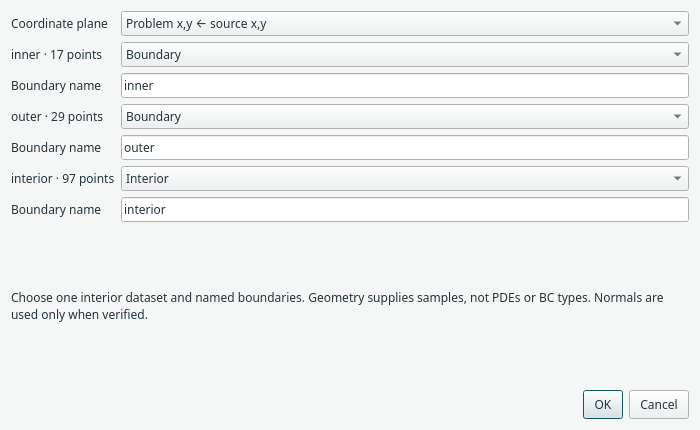
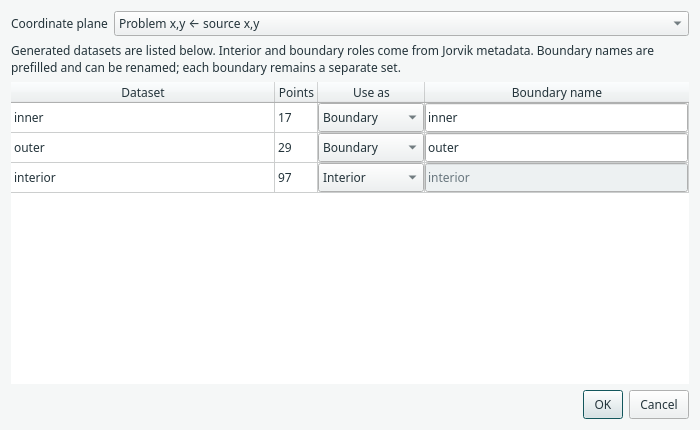
Export saved Jorvik samples automatically and prefill dataset roles
Read generated arrays from validated project documents, preserve explicit NetCDF overrides, and present independent boundaries in a named dataset table.

diff --git a/margam/ui/jorvik_geometry.py b/margam/ui/jorvik_geometry.py
@@ -6,11 +6,10 @@ import shutil
 import sys
 from zipfile import BadZipFile
 from uuid import uuid4
-from PySide6.QtCore import QProcess, QIODevice, QUrl
+from PySide6.QtCore import QProcess, QIODevice, QUrl, Qt
 from PySide6.QtGui import QDesktopServices
-from PySide6.QtWidgets import QDialog, QDialogButtonBox, QVBoxLayout, QFormLayout, QLabel, QComboBox, QLineEdit, QMessageBox, QPushButton, QFileDialog
-from ..components.jorvik_data import records, inspect_selection
-from .graph_model import parameters_for
+from PySide6.QtWidgets import QDialog, QDialogButtonBox, QVBoxLayout, QFormLayout, QLabel, QComboBox, QLineEdit, QMessageBox, QPushButton, QFileDialog, QTableWidget, QTableWidgetItem, QHeaderView, QAbstractItemView
+from ..components.jorvik_data import records, inspect_selection, export_saved_project
 
 
 def document_relative(identifier):
@@ -22,20 +21,32 @@ class DatasetDialog(QDialog):
         super().__init__(parent)
         self.setWindowTitle('Update from Jorvik · planar 2D samples')
         layout=QVBoxLayout(self);form=QFormLayout();layout.addLayout(form)
-        note=QLabel('Choose one interior dataset and named boundaries. Geometry supplies samples, not PDEs or BC types. Normals are used only when verified.');note.setWordWrap(True);layout.addWidget(note)
+        note=QLabel('Generated datasets are listed below. Interior and boundary roles come from Jorvik metadata. Boundary names are prefilled and can be renamed; each boundary remains a separate set.');note.setWordWrap(True);layout.addWidget(note)
         self.axes=QComboBox()
         for axes in ((0,1),(0,2),(1,2)):self.axes.addItem('Problem x,y ← source '+','.join('xyz'[axis] for axis in axes),axes)
         self.axes.setCurrentIndex(((0,1),(0,2),(1,2)).index(tuple(previous.get('axes',[0,1]))));form.addRow('Coordinate plane',self.axes)
-        self.rows=[]
-        for record in records(path):
+        exported=records(path)
+        self.table=QTableWidget(len(exported),4);self.table.setHorizontalHeaderLabels(['Dataset','Points','Use as','Boundary name'])
+        self.table.setEditTriggers(QAbstractItemView.EditTrigger.NoEditTriggers)
+        self.table.verticalHeader().hide();self.table.setSelectionMode(QAbstractItemView.SelectionMode.NoSelection)
+        header=self.table.horizontalHeader()
+        for column in (0,3):header.setSectionResizeMode(column,QHeaderView.ResizeMode.Stretch)
+        for column in (1,2):header.setSectionResizeMode(column,QHeaderView.ResizeMode.ResizeToContents)
+        layout.addWidget(self.table);self.rows=[]
+        for row,record in enumerate(exported):
             metadata=record['metadata'];identity=metadata.get('boundary_region',{}).get('id') or 'label:'+record['label']
             old=previous.get('datasets',{}).get(identity,{})
-            choice=QComboBox();choice.addItems(['Ignore','Interior','Boundary'])
-            choice.setCurrentText(old.get('role','Ignore').title())
+            default='interior' if metadata.get('target')=='interior' or metadata.get('entity_dimension')==2 else 'boundary' if metadata.get('entity_dimension')==1 else 'choose role…'
+            choice=QComboBox();choice.addItems(['Interior','Boundary','Ignore','Choose role…'])
+            choice.setCurrentText(old.get('role',default).capitalize())
             alias=QLineEdit(old.get('name',record['label']));alias.setMaxLength(64)
-            form.addRow(record['label']+' · '+str(metadata.get('count','?'))+' points',choice)
-            form.addRow('Boundary name',alias)
+            alias.setEnabled(choice.currentText()=='Boundary')
+            choice.currentTextChanged.connect(lambda text,widget=alias:widget.setEnabled(text=='Boundary'))
+            for column,text in [(0,record['label']),(1,str(metadata.get('count','?')))]:
+                item=QTableWidgetItem(text);item.setFlags(Qt.ItemFlag.ItemIsEnabled);self.table.setItem(row,column,item)
+            self.table.setCellWidget(row,2,choice);self.table.setCellWidget(row,3,alias)
             self.rows.append((record['label'],choice,alias))
+        self.resize(800,min(600,220+45*len(exported)))
         buttons=QDialogButtonBox(QDialogButtonBox.StandardButton.Ok|QDialogButtonBox.StandardButton.Cancel)
         buttons.accepted.connect(self.accept);buttons.rejected.connect(self.reject);layout.addWidget(buttons)
 
@@ -124,12 +135,21 @@ class JorvikGeometryActions:
             self.jorvik_process=None;self.project_workspace.busy=False;self.set_busy(False)
             self.undo_stack.resetClean()
             if self.desktop_state is not None:self.desktop_state.queue()
-            self.statusBar().showMessage('Jorvik closed · Update from Jorvik to apply exported samples' if not args or args[0]==0 else 'Jorvik exited with an error · check editor.log in its working folder')
+            if not args or args[0]==0:
+                if node.settings.get('jorvik_files',{}).get('export'):
+                    self.statusBar().showMessage('Jorvik closed · selected NetCDF copy remains active; clear that override to use saved project samples')
+                else:
+                    try:
+                        count=export_saved_project(self.jorvik_document(node),self.jorvik_export(node))
+                        self.statusBar().showMessage(f'Exported {count} saved Jorvik datasets · Update from Jorvik to apply')
+                    except (OSError,ValueError,TypeError,KeyError,ImportError,BadZipFile) as error:
+                        self.statusBar().showMessage('Jorvik closed · '+str(error))
+            else:self.statusBar().showMessage('Jorvik exited with an error · check editor.log in its working folder')
             process.deleteLater()
         process.finished.connect(finished)
         def failed(error):
             self.statusBar().showMessage('Jorvik launch failed · check editor.log')
-            if error==QProcess.ProcessError.FailedToStart:finished()
+            if error==QProcess.ProcessError.FailedToStart:finished(-1)
         process.errorOccurred.connect(failed);process.start()
         self.statusBar().showMessage('Editing in Jorvik · close its window before saving or updating Margam')
         return True
@@ -139,6 +159,8 @@ class JorvikGeometryActions:
         snapshot=None
         try:
             path=self.jorvik_export(node)
+            if not node.settings.get('jorvik_files',{}).get('export'):
+                export_saved_project(self.jorvik_document(node),path)
             previous=node.settings.get('jorvik',{})
             if selections is None:
                 dialog=DatasetDialog(path,previous,self)
@@ -211,7 +233,7 @@ class JorvikGeometryActions:
             self.push_edit('Update from Jorvik',redo,lambda:apply(old,False))
             self.statusBar().showMessage('Applied Jorvik snapshot · assign BC physics and connect supplied evaluation points')
             return True
-        except (OSError,ValueError,TypeError,KeyError,ImportError) as error:
+        except (OSError,ValueError,TypeError,KeyError,ImportError,BadZipFile) as error:
             if snapshot is not None:snapshot.unlink(missing_ok=True)
             QMessageBox.warning(self,'Jorvik update could not be applied',str(error));return False
 
@@ -226,6 +248,6 @@ class JorvikGeometryActions:
         if node.settings.get('jorvik_files',{}).get('export'):
             reset=QPushButton('Use export beside geometry document');reset.clicked.connect(lambda:self.use_adjacent_jorvik_export(node));self.form.addRow(reset)
         folder=QPushButton('Open working folder');folder.clicked.connect(lambda:QDesktopServices.openUrl(QUrl.fromLocalFile(str(path.parent))));self.form.addRow(folder)
-        note=QLabel('In Jorvik, save the document and export samples as domain.nc in the same folder. Close Jorvik, then Update. Choose Interior / Boundary datasets explicitly. Supported: axis-aligned planar 2D scalar problems; evaluation points remain separate.');note.setWordWrap(True);self.form.addRow(note)
+        note=QLabel('In Jorvik, generate samples and save the document. Margam exports its saved samples automatically when the editor closes or when you Update. Roles and boundary names are prefilled. An optional selected NetCDF copy overrides this export. Supported: axis-aligned planar 2D scalar problems; evaluation points remain separate.');note.setWordWrap(True);self.form.addRow(note)
         for text,action in [('Edit in Jorvik',self.edit_jorvik),('Update from Jorvik',self.update_jorvik)]:
             button=QPushButton(text);button.clicked.connect(lambda checked=False,callback=action:callback(node));self.form.addRow(button)

diff --git a/tests/test_jorvik.py b/tests/test_jorvik.py
@@ -27,6 +27,7 @@ def fixture(path, *, nonplanar=False, normal_kind='outward_conormal'):
                          normal_validation='fixture',boundary_region={'id':label+'-stable'})
         batches.append(batch)
     export_samples(batches,path)
+    return batches
 
 
 SELECTION={'interior':('interior','interior'),'base':('boundary','base'),'wall':('boundary','wall')}
@@ -47,6 +48,23 @@ class JorvikDataTests(unittest.TestCase):
             points,normals,_=read_points(report['boundaries']['wall']['mapping'],2)
             self.assertEqual(points.shape,(4,2));np.testing.assert_array_equal(normals,np.tile([-1,0],(4,1)))
             self.assertEqual(report['boundaries']['base']['identity'],'base-stable')
+
+    def test_export_saved_project_and_missing_samples(self):
+        from unittest.mock import patch
+        from margam.components.jorvik_data import export_saved_project
+        from jorvik.project import create_empty_project
+        with tempfile.TemporaryDirectory() as directory:
+            path=Path(directory)/'domain.nc';batches=fixture(path)
+            path.unlink()
+            manifest={'areas':[dict(status='Generated',area=batch) for batch in batches]}
+            with patch('jorvik.project.load_project',return_value=(manifest,None)):
+                self.assertEqual(export_saved_project('saved.jorvik',path),3)
+            report=inspect_selection(path,SELECTION)
+            self.assertEqual(len(report['boundaries']),2)
+            original=path.read_bytes()
+            empty=Path(directory)/'empty.jorvik';create_empty_project(empty)
+            with self.assertRaisesRegex(ValueError,'No generated samples'):export_saved_project(empty,path)
+            self.assertEqual(path.read_bytes(),original)
 
     def test_nonplanar_and_invalid_roles(self):
         with tempfile.TemporaryDirectory() as directory:
@@ -106,6 +124,13 @@ with TemporaryDirectory() as directory:
     pde=next(n for n in w.scene.nodes() if n.kind=='pde')
     bc=next(n for n in w.scene.nodes() if n.kind=='bc')
     w.scene.connect_nodes(interior,pde);w.scene.connect_nodes(boundary,bc)
+    from margam.ui.jorvik_geometry import DatasetDialog
+    dialog=DatasetDialog(w.jorvik_export(geometry),{},w)
+    assert dialog.selection()==SELECTION
+    assert dialog.table.rowCount()==3
+    assert [alias.isEnabled() for label,choice,alias in dialog.rows]==[False,True,True]
+    dialog.rows[1][2].setText('renamed');assert dialog.selection()['base']==('boundary','renamed')
+    dialog.close()
     from PySide6.QtCore import QProcess
     with patch.object(QProcess,'start'):
         assert w.edit_jorvik(geometry)

diff --git a/examples/capture_jorvik.py b/examples/capture_jorvik.py
@@ -32,10 +32,9 @@ def main():
                 if node.kind in ('domain','interior','boundary'):window.delete_block(node)
             geometry=window.add_node('Jorvik geometry')
             import shutil
-            shutil.copyfile(export,window.jorvik_document(geometry).with_suffix('.nc'))
+            assert window.browse_jorvik(geometry,'document',export.with_suffix('.jorvik'))
             dialog=DatasetDialog(export,{},window)
-            for label,choice,alias in dialog.rows:
-                choice.setCurrentText(selections[label][0].title());alias.setText(label)
+            assert dialog.selection()==selections
             dialog.resize(700,430);dialog.show();save(dialog,'datasets');dialog.close()
             assert window.update_jorvik(geometry,selections,confirm=False)
             interior=next(n for n in window.scene.nodes() if n.kind=='interior_data');boundary=next(n for n in window.scene.nodes() if n.kind=='boundary_data')
@@ -44,7 +43,7 @@ def main():
             positions={'jorvik_geometry':(0,160),'interior_data':(240,40),'boundary_data':(240,270),'pde':(480,40),'bc':(480,270),'network':(480,440),'method':(730,160)}
             for node in window.scene.nodes():node.setPos(*positions[node.kind])
             assert window.validate_model();window.show_block_properties(geometry);window.fit_model();save(window,'geometry')
-        manifest.write_text(json.dumps(dict(generator='examples.capture_jorvik',case='Actual Jorvik annulus export; Margam-owned editor document starts empty.',files={path.name:dict(bytes=path.stat().st_size,sha256=hashlib.sha256(path.read_bytes()).hexdigest()) for path in paths.values()}),indent=2)+'\n')
+        manifest.write_text(json.dumps(dict(generator='examples.capture_jorvik',case='Actual saved Jorvik annulus document and automatic sample export.',files={path.name:dict(bytes=path.stat().st_size,sha256=hashlib.sha256(path.read_bytes()).hexdigest()) for path in paths.values()}),indent=2)+'\n')
     finally:window.undo_stack.setClean();window.close();app.clipboard().clear();app.processEvents()
 
 

diff --git a/examples/jorvik_exchange.py b/examples/jorvik_exchange.py
@@ -30,7 +30,15 @@ def sample_annulus(directory):
                        resolution=32,compute_mode='reproducible',cpu_threads=1)
         if region:request['boundary_region']=region_snapshot(regions,geometry,region['id'])
         batches.append(sample_geometry(request))
-    path=directory/'domain.nc';export_samples(batches,path)
+    from jorvik.project import save_project
+    state=dict(mode='edge',selection=[],selected_area=None,boundary_regions=regions,
+               show_points=True,through=False,show_grid=False,show_axes=True,isolate=False,isolate_geometry=False,point_size=5,
+               geometry_visibility=dict(geometry=True,faces=True,edges=True,hiddenFaces=[],isolatedFaces=None),
+               controls=dict(method='sobol',compute_mode='reproducible',resolution=32,count=97,seed=42,cpu_threads=1,label='interior',target='interior'))
+    project=directory/'domain.jorvik'
+    save_project(project,geometry,[(batch,'Generated',True) for batch in batches],state)
+    from margam.components.jorvik_data import export_saved_project
+    path=directory/'domain.nc';assert export_saved_project(project,path)==3
     return path,{'interior':('interior','interior'),'inner':('boundary','inner'),'outer':('boundary','outer')}
 
 

diff --git a/margam/components/jorvik_data.py b/margam/components/jorvik_data.py
@@ -118,3 +118,15 @@ def inspect_selection(path, selections, axes=(0,1)):
     if np.any(lower>=upper): raise ValueError('Selected points need nonzero extent in both problem coordinates.')
     return dict(interior=interior[0],boundaries=boundaries,bounds=[lower.tolist(),upper.tolist()],
                 axes=list(axes),sha256=hashlib.sha256(Path(path).read_bytes()).hexdigest())
+
+
+def export_saved_project(project, destination):
+    """Export already-generated arrays from Jorvik's validated saved document."""
+    from jorvik.project import load_project
+    from jorvik.export import export_samples
+    manifest, _ = load_project(project)
+    batches=[record['area'] for record in manifest['areas'] if record['status']=='Generated']
+    if not batches:
+        raise ValueError('No generated samples in the saved Jorvik document. Generate samples in Jorvik and save the project first.')
+    export_samples(batches,destination)
+    return len(batches)

diff --git a/docs/jorvik.md b/docs/jorvik.md
@@ -19,19 +19,23 @@ Margam `geometry` extra declares the NetCDF reader dependencies, xarray and SciP
 installing Jorvik supplies those too. Margam's ordinary built-in domains do not
 require Jorvik. Importing a model never launches the external editor automatically.
 
-## Edit, export and apply
+## Edit, save and apply
 
 1. Add **Jorvik geometry** from the block library. It creates an empty `.jorvik`
    document in the current project's working folder.
 2. Right-click the block → **Edit in Jorvik**, or double-click it. Import your
    geometry, define named boundary regions and generate samples there.
-3. Save the Jorvik document. Export the generated datasets as **domain.nc** beside
-   **domain.jorvik**. The block's **Open working folder** button shows that folder.
-   Saving the editor document alone does not create the NetCDF export.
+3. Save the Jorvik document after generating samples. Margam reads its saved
+   generated datasets and exports **domain.nc** automatically when the editor
+   closes. No manual export step is needed. It also regenerates the export when
+   you choose Update, so a stale adjacent NetCDF file is not reused.
 4. Close Jorvik. Back in Margam, right-click → **Update from Jorvik**.
-5. Choose the source coordinate plane, exactly one **Interior** dataset and one
-   or more **Boundary** datasets. Leave other datasets as **Ignore**. Enter a
-   unique boundary name starting with a letter; letters, digits, `_` and `-` follow.
+5. Review the dataset table. Roles are preselected from Jorvik sampling metadata;
+   boundary names are prefilled from the exported labels and remain editable.
+   Each boundary dataset has its own row. Confirm the coordinate plane, one
+   **Interior** dataset and one or more **Boundary** datasets. **Ignore** is an
+   explicit opt-out, not the default. Boundary names start with a letter, followed
+   by letters, digits, `_` or `-`.
 6. Confirm the update. Margam creates or updates **Interior data** and **Boundary
    data** blocks connected to this geometry. Connect their outputs to the PDE and
    Boundary condition blocks, respectively. Remove the original rectangle/samplers
@@ -43,12 +47,13 @@ require Jorvik. Importing a model never launches the external editor automatical
 ![Select independently sized datasets and their roles](../assets/screenshots/manual-jorvik-datasets.png)
 
 *Real Jorvik annulus export: 97 interior points, 17 inner-boundary points and 29
-outer-boundary points. Dataset roles are explicit; labels do not decide physics.*
+outer-boundary points. Metadata selects the default roles; editable names preserve
+the exported labels. No PDE or BC type is inferred from a name.*
 
 ![Jorvik geometry with separate prepared data sources](../assets/screenshots/manual-jorvik-geometry.png)
 
 *The geometry block opens its document in the external editor. This capture applies
-an actual annulus export to a newly created block; its editor document starts empty.*
+a saved annulus document and automatically exports its generated samples.*
 
 ## Optional existing files
 
@@ -71,6 +76,24 @@ Both selections are undoable, survive Save/Save As and recovery, and move with t
 project companion folder. Cancelling a picker leaves the block unchanged. The
 named BC sets remain separate for physics assignment; per-boundary loss weight
 controls are separate future work.
+
+## Generated samples and separate boundaries
+
+Margam exports samples that already exist in the saved Jorvik document; it does
+not generate new samples or choose sampling budgets. If the saved document has no
+generated datasets, Update explains that samples must be generated and saved first.
+Ungenerated sampling requests are not exported. Export errors leave the last applied
+snapshot unchanged. There is no silent fallback to an older adjacent NetCDF file.
+
+For four independent rectangle BCs, create and sample four named boundary regions
+in Jorvik. A single dataset containing all edges remains one set; Margam does not
+split it or invent names from the entity tags. Multiple interior datasets still
+require choosing one for this executor. Unknown metadata asks for a role rather
+than defaulting to Ignore. Previous boundary aliases remain selected by stable ID.
+
+An optional **Browse sample export** selection bypasses automatic project export:
+that selected copy is the chosen data source. Use **Use export beside geometry
+document** to return to automatically exporting the saved project samples.
 
 ## Updates and boundary identity
 
@@ -99,8 +122,8 @@ avoid merging unrelated project files.
 
 While Jorvik is open, editing, saving, project replacement and closing Margam are
 blocked. Close Jorvik first, so it cannot continue writing to a folder being moved
-or deleted. Closing it marks the Margam document modified, but does not apply its
-export automatically. Desktop recovery includes owned files from its last recovery
+or deleted. Closing it marks the Margam document modified and exports its saved generated
+samples. Applying those datasets still requires Update and confirmation. Desktop recovery includes owned files from its last recovery
 snapshot; recovery is paused during external editing and queued when the editor
 closes. Discard removes temporary working files, not saved project folders.
 

diff --git a/AGENTS.md b/AGENTS.md
@@ -146,7 +146,11 @@
 - Jorvik geometry documents are explicitly enabled for steady planar 2D scalar
   imported samples. Keep the editor in a separate process using the root environment.
   New documents use `.jorvik`; exports use `domain.nc` beside `domain.jorvik`.
-  Apply NetCDF updates explicitly with dataset-role selection, stable region IDs,
+  Export saved generated arrays automatically on editor close and Update, using
+  Jorvik project validation and atomic export; never regenerate samples or silently
+  fall back to stale exports. An explicitly browsed NetCDF copy overrides this.
+  Prefill dataset roles from metadata and boundary names from labels; Ignore is
+  opt-in. Apply updates explicitly with dataset-role review, stable region IDs,
   verified planar conormals and immutable owned snapshots. Never assign PDE/BC
   physics from labels or infer mesh topology. Preserve relative owned references,
   Save As isolation, owned-file recovery and the editor lock during save/close.

diff --git a/docs/todo.md b/docs/todo.md
@@ -471,7 +471,9 @@ only when the user explicitly requests including it here.
 
 - [ ] Import supplied evaluation datasets and mesh connectivity from Jorvik, with an explicit export contract.
 - [ ] Copy/paste owned geometry documents as independent copies.
-- [ ] Detect geometry/export freshness beyond fixed snapshot identity; users currently explicitly export and apply.
+- [x] Export generated samples directly from the saved Jorvik document on editor close and Update; retain explicit application.
 
 - [x] Optional existing Jorvik project and NetCDF export browse buttons, using validated owned copies.
 - [ ] Per-named-boundary loss coefficients in Margam's BC/loss controls.
+
+- [x] Prefilled dataset table with metadata-based roles, editable boundary names and explicit Ignore opt-out.

diff --git a/docs/validation.md b/docs/validation.md
@@ -336,3 +336,10 @@ The [annulus interchange record](../assets/benchmarks/jorvik-exchange.json) chec
 real CAD-derived samples, hole/outer normal orientation and exact CPU checkpoint
 continuation. The manual build checked 60 rendered pages. See the illustrated
 [Jorvik workflow](jorvik.md) for current scope and reproducible commands.
+
+The automatic-export follow-up additionally verifies reading generated arrays from
+a saved project, preserving an existing NetCDF file when no generated samples are
+available, prefilled interior/boundary roles and editable per-boundary names. The
+real annulus example now saves and reloads a Jorvik document before automatically
+exporting it. Ten focused persistence/integration tests and the 60-page manual
+build passed after this change.

diff --git a/assets/geometry/rectangle/README.md b/assets/geometry/rectangle/README.md
@@ -17,4 +17,5 @@ physical units in the GEO definition.
 
 In Margam, open the Jorvik geometry block's editor, then import `rectangle.geo`.
 Select its four edges to create boundary regions, sample the face interior and
-boundaries, and export `domain.nc` beside the owned `domain.jorvik` document.
+boundaries, and save the owned `domain.jorvik` document. Margam exports its saved
+generated samples automatically; close Jorvik and use Update to apply them.
